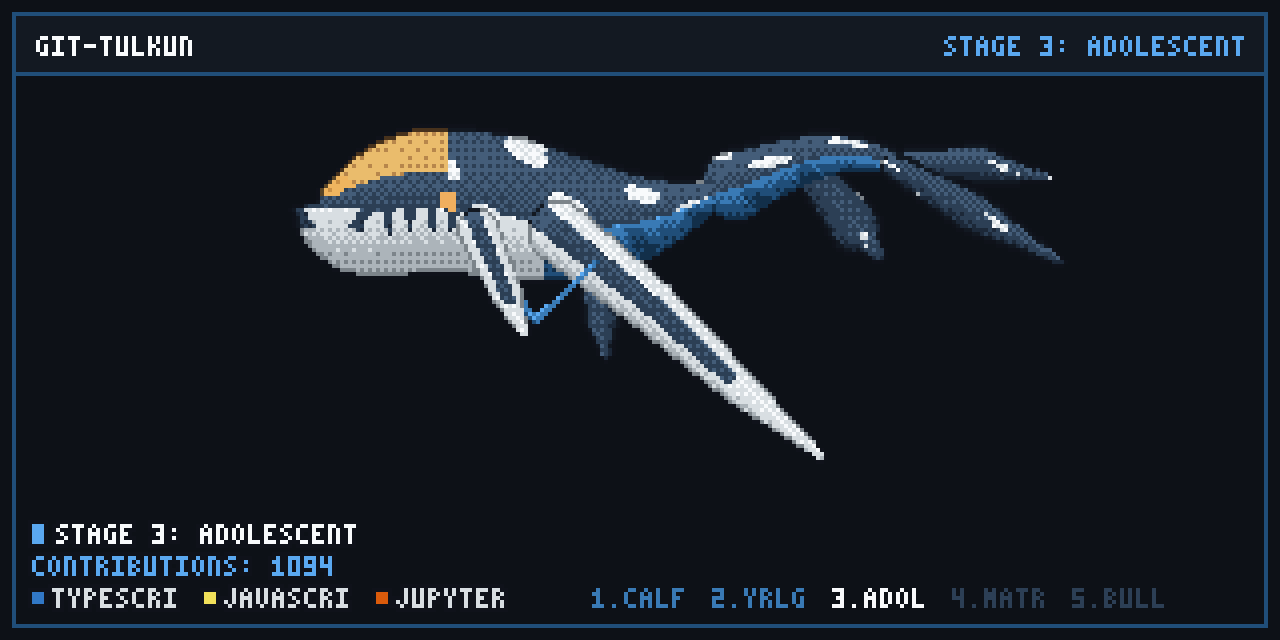
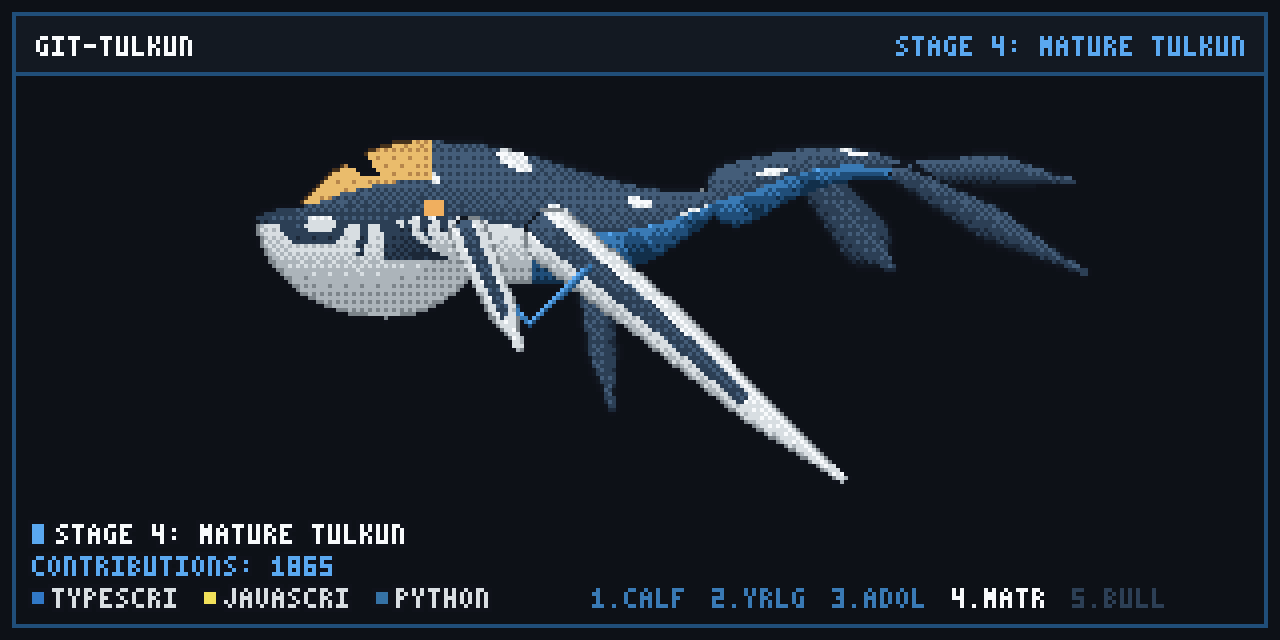
chore(tulkun): update live assets and caption to stage 4 mature tulkun

diff --git a/scripts/update-showcase.py b/scripts/update-showcase.py
@@ -216,7 +216,7 @@ def render_showcase_md(members: list[dict], total_swimmers: int) -> str:
         "",
         "| Developer | Profile Repository | Live Animated Tulkun |",
         "| :--- | :--- | :---: |",
-        f'| <a href="https://github.com/{REPO_OWNER}"><img src="https://github.com/{REPO_OWNER}.png?size=64" width="36" height="36" style="border-radius:50%;" /><br/><strong>@{REPO_OWNER}</strong></a> *(Creator)* | [`{REPO_OWNER}/{REPO_NAME}`](https://github.com/{REPO_OWNER}/{REPO_NAME}) | <a href="https://github.com/{REPO_OWNER}"><img src="tulkun/tulkun.gif?v=9" width="380" alt="@{REPO_OWNER}\'s live Tulkun" /></a> |',
+        f'| <a href="https://github.com/{REPO_OWNER}"><img src="https://github.com/{REPO_OWNER}.png?size=64" width="36" height="36" style="border-radius:50%;" /><br/><strong>@{REPO_OWNER}</strong></a> *(Creator)* | [`{REPO_OWNER}/{REPO_NAME}`](https://github.com/{REPO_OWNER}/{REPO_NAME}) | <a href="https://github.com/{REPO_OWNER}"><img src="https://raw.githubusercontent.com/{REPO_OWNER}/{REPO_NAME}/output/tulkun/tulkun.gif" width="380" alt="@{REPO_OWNER}\'s live Tulkun" /></a> |',
     ]
 
     for m in live_members:
@@ -292,7 +292,7 @@ def render_discussion_body(members: list[dict], total_swimmers: int) -> str:
     """Render the body content for GitHub Discussion #4."""
     live_members = [m for m in members if m["has_gif"]]
     rows = [
-        f'| <a href="https://github.com/{REPO_OWNER}"><img src="https://github.com/{REPO_OWNER}.png?size=64" width="36" height="36" style="border-radius:50%;" /><br/><strong>@{REPO_OWNER}</strong></a> *(Creator)* | [`{REPO_OWNER}/{REPO_NAME}`](https://github.com/{REPO_OWNER}/{REPO_NAME}) | <a href="https://github.com/{REPO_OWNER}"><img src="https://raw.githubusercontent.com/{REPO_OWNER}/{REPO_NAME}/main/tulkun/tulkun.gif" width="360" alt="@{REPO_OWNER}\'s live Tulkun" /></a> |'
+        f'| <a href="https://github.com/{REPO_OWNER}"><img src="https://github.com/{REPO_OWNER}.png?size=64" width="36" height="36" style="border-radius:50%;" /><br/><strong>@{REPO_OWNER}</strong></a> *(Creator)* | [`{REPO_OWNER}/{REPO_NAME}`](https://github.com/{REPO_OWNER}/{REPO_NAME}) | <a href="https://github.com/{REPO_OWNER}"><img src="https://raw.githubusercontent.com/{REPO_OWNER}/{REPO_NAME}/output/tulkun/tulkun.gif" width="360" alt="@{REPO_OWNER}\'s live Tulkun" /></a> |'
     ]
 
     for m in live_members:

diff --git a/SHOWCASE.md b/SHOWCASE.md
@@ -9,7 +9,7 @@
 
 | Developer | Profile Repository | Live Animated Tulkun |
 | :--- | :--- | :---: |
-| <a href="https://github.com/PramudithaN"><img src="https://github.com/PramudithaN.png?size=64" width="36" height="36" style="border-radius:50%;" /><br/><strong>@PramudithaN</strong></a> *(Creator)* | [`PramudithaN/git-tulkun`](https://github.com/PramudithaN/git-tulkun) | <a href="https://github.com/PramudithaN"><img src="tulkun/tulkun.gif?v=9" width="380" alt="@PramudithaN's live Tulkun" /></a> |
+| <a href="https://github.com/PramudithaN"><img src="https://github.com/PramudithaN.png?size=64" width="36" height="36" style="border-radius:50%;" /><br/><strong>@PramudithaN</strong></a> *(Creator)* | [`PramudithaN/git-tulkun`](https://github.com/PramudithaN/git-tulkun) | <a href="https://github.com/PramudithaN"><img src="https://raw.githubusercontent.com/PramudithaN/git-tulkun/output/tulkun/tulkun.gif" width="380" alt="@PramudithaN's live Tulkun" /></a> |
 | <a href="https://github.com/1mos-droid"><img src="https://github.com/1mos-droid.png?size=64" width="36" height="36" style="border-radius:50%;" /><br/><strong>@1mos-droid</strong></a> | [`1mos-droid/1mos-droid`](https://github.com/1mos-droid/1mos-droid) | <a href="https://github.com/1mos-droid"><img src="https://raw.githubusercontent.com/1mos-droid/1mos-droid/output/tulkun/tulkun.gif" width="380" alt="@1mos-droid's Tulkun" /></a> |
 | <a href="https://github.com/ANAND-debug-bit"><img src="https://github.com/ANAND-debug-bit.png?size=64" width="36" height="36" style="border-radius:50%;" /><br/><strong>@ANAND-debug-bit</strong></a> | [`ANAND-debug-bit/ANAND-debug-bit`](https://github.com/ANAND-debug-bit/ANAND-debug-bit) | <a href="https://github.com/ANAND-debug-bit"><img src="https://raw.githubusercontent.com/ANAND-debug-bit/ANAND-debug-bit/output/tulkun/tulkun.gif" width="380" alt="@ANAND-debug-bit's Tulkun" /></a> |
 | <a href="https://github.com/bitzzdev"><img src="https://github.com/bitzzdev.png?size=64" width="36" height="36" style="border-radius:50%;" /><br/><strong>@bitzzdev</strong></a> | [`bitzzdev/bitzzdev`](https://github.com/bitzzdev/bitzzdev) | <a href="https://github.com/bitzzdev"><img src="https://raw.githubusercontent.com/bitzzdev/bitzzdev/output/tulkun/tulkun.gif" width="380" alt="@bitzzdev's Tulkun" /></a> |

diff --git a/README.md b/README.md
@@ -4,10 +4,10 @@ A procedural pixel-art **Tulkun** leviathan for your GitHub profile `README.md` 
 
 <p align="center">
   <a href="https://github.com/PramudithaN/git-tulkun">
-    <img src="tulkun/tulkun.gif?v=9" width="640" alt="Live git-tulkun rendered from @PramudithaN's GitHub activity" />
+    <img src="https://raw.githubusercontent.com/PramudithaN/git-tulkun/output/tulkun/tulkun.gif?v=10" width="640" alt="Live git-tulkun rendered from @PramudithaN's GitHub activity" />
   </a>
   <br />
-  <em>Live <code>git-tulkun</code> generated from <a href="https://github.com/PramudithaN">@PramudithaN</a>'s current-year GitHub activity (1,072 contributions - Stage 3: Adolescent Tulkun)</em>
+  <em>Live <code>git-tulkun</code> generated from <a href="https://github.com/PramudithaN">@PramudithaN</a>'s current-year GitHub activity (Stage 4: Mature Tulkun)</em>
 </p>
 
 ## Quick Start (1-Step Setup)
@@ -64,7 +64,7 @@ Every workflow run automatically generates a `1280×640` social card at **`tulku
 
 <p align="center">
   <a href="https://github.com/PramudithaN/git-tulkun">
-    <img src="tulkun/share-card.png?v=9" width="640" alt="Your Tulkun This Year Share Card (1280x640)" />
+    <img src="https://raw.githubusercontent.com/PramudithaN/git-tulkun/output/tulkun/share-card.png?v=10" width="640" alt="Your Tulkun This Year Share Card (1280x640)" />
   </a>
 </p>
 
